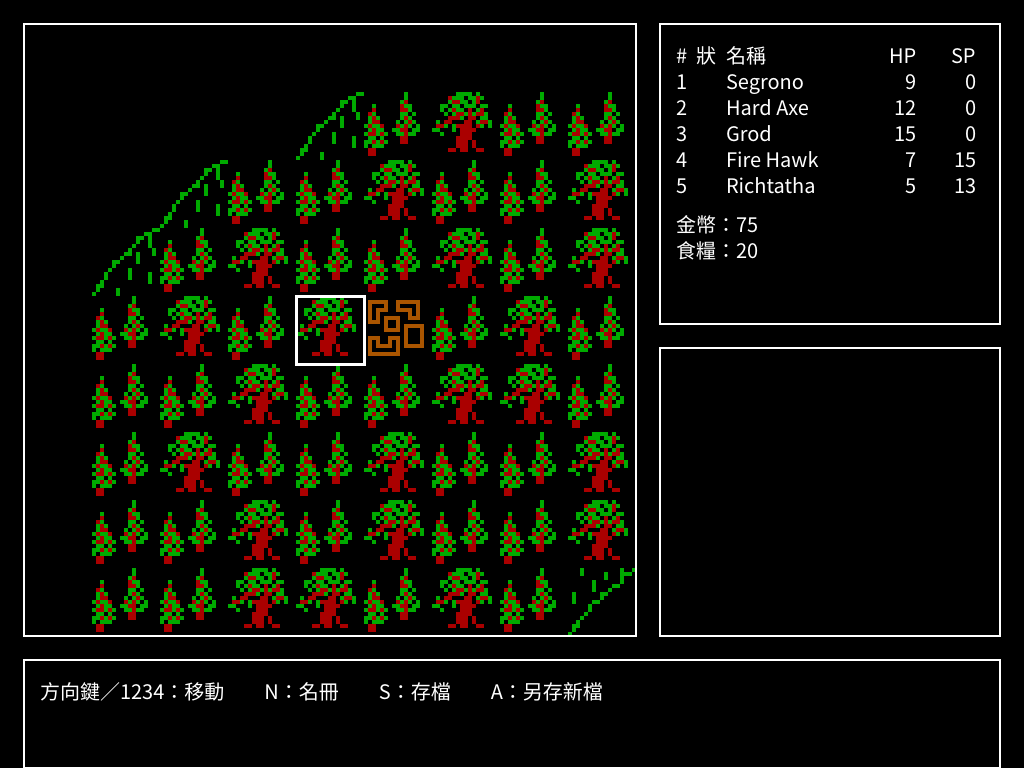
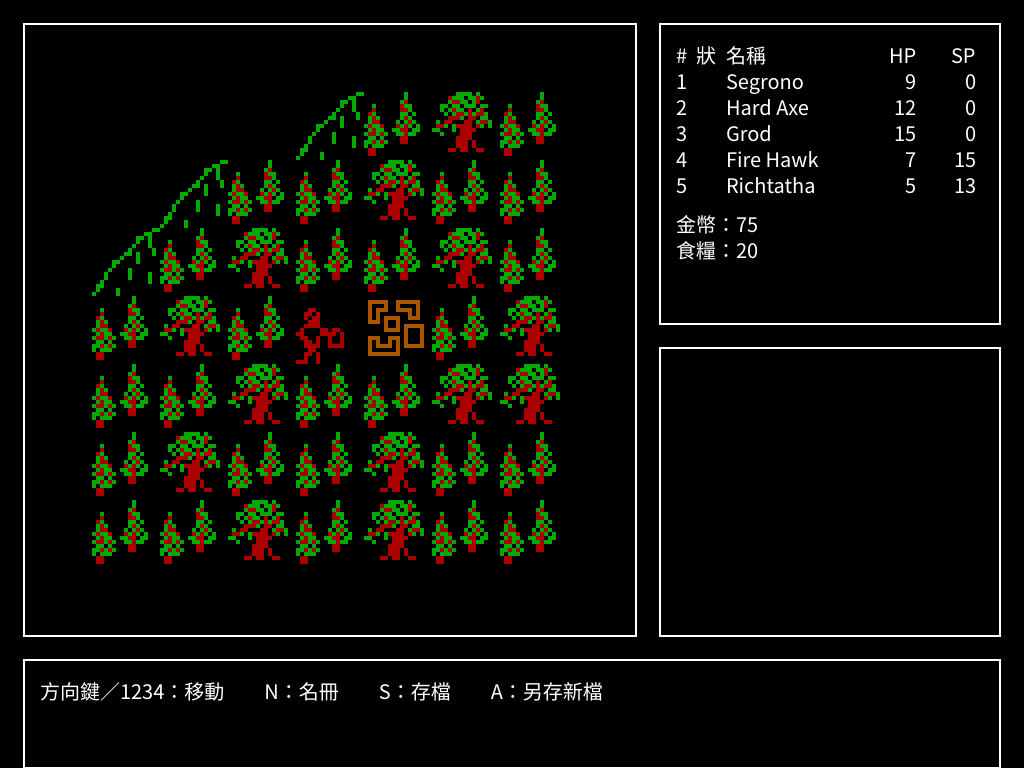
QA-C1:世界地圖與地城畫回原版的人形(WALKDRAW.PIC)
原版在隊伍那一格畫人形,重製版畫白框 —— 而白框是「⛔ 不拿別的圖冒充」
那條紀律的正確後果,不是隨便畫的:cmd/convert 從來沒轉 WALKDRAW.PIC,
引擎沒有東西可畫。

段對朝向是**量出來的**(docs/re/219):原版轉身不移動,所以連按四個
方向鍵各拍一張,四張之間唯一會變的就是人形本身 —— 實測有差異的像素
只落在 x 72-86、y 83-97 那一格,證實了這一點。再逐像素比對:
北=段2(95%)、東=段3(94%)、西=段7(89%)乾淨命中,南在 93%/92%
之間分不開,用排除法。結論 段 = (朝向−1)×2 + 1 + 步態。

⚠ 比對「畫在別的東西上面」的圖要比**含蓋率**不要比相符率。第一次用
「逐像素相同的比例」比,十段全部落在 55-70% 分不出高下 —— 因為那一格
同時有地形與人形。改比「sprite 的像素有幾成在原版那一格是亮的」之後,
最高的一項就跳到 95%。

⚠ 同一張圖要輸出**兩組色盤**:WRLDMOVE 寫 0x3D8=0x0A、MAZEMOVE 寫 0x0E。
只輸出一份的話其中一個場景顏色是錯的,而畫面上仍然是一個人形,
看不出哪裡不對。

⚠ 人形同時是**朝向的顯示**。世界地圖是「先轉再走」,沒有它玩家按一次
方向鍵不會動、卻不知道為什麼 —— 這比「少一張圖」嚴重。

步態只在真的位移時翻(轉身不換腳),兩處的 Step 回傳值本來就把轉身與
位移分開,加在 Moved 那一支。圖不在就退回白框。

README 的世界地圖與地城截圖跟著更新。

Changed region(s): [[0.0938, 0.125, 0.625, 0.8438], [0.2812, 0.375, 0.375, 0.5]]

diff --git a/engine/walk.go b/engine/walk.go
@@ -1,0 +1,97 @@
+package main
+
+import (
+	"fmt"
+	"image"
+	"os"
+	"path/filepath"
+
+	"github.com/hajimehoshi/ebiten/v2"
+
+	"shardofspring/internal/layout"
+)
+
+// 隊伍的人形圖示。來源是 `WALKDRAW.PIC`(10 段 BASIC `DRAW` 巨集),
+// 由 `cmd/convert` 渲染成 `gfx/walk/`(世界地圖色盤)與 `gfx/walk-maze/`(地城色盤)。
+//
+// ⚠ **這不是地形圖塊**,是畫在地形**上面**的角色 —— 世界地圖與地城共用同一份
+// (`MENU.EXE` 載入後放進 COMMON,只有它含這個檔名)。
+//
+// 段的語意(docs/re/219,用原版四個朝向的截圖逐像素比對出來的):
+//
+//	段 0        紮營的帳篷
+//	段 1,2      朝向 1(北)的兩個步態
+//	段 3,4      朝向 2(東)
+//	段 5,6      朝向 3(南)
+//	段 7,8      朝向 4(西)
+//	段 9        未定(不是人形)
+//
+// 也就是 `段 = (朝向−1)×2 + 1 + 步態`。
+
+// WalkSegs 是人形那八段的數量(不含帳篷與段 9)。
+const WalkSegs = 8
+
+// WalkTent 是紮營時取代人形的那一段。
+const WalkTent = 0
+
+// walkArt 是一組已載入的人形圖(索引 = 段號)。
+type walkArt map[int]*ebiten.Image
+
+// loadWalk 讀 <assets>/gfx/<dir>/w0.png … w9.png。
+//
+// ⚠ **讀不到就回 nil**,呼叫端退回白框(不拿別的圖冒充,同 docs/spec/15 §3)。
+func loadWalk(assets, dir string) walkArt {
+	out := walkArt{}
+	for k := 0; k <= 9; k++ {
+		f, err := os.Open(filepath.Join(assets, "gfx", dir, fmt.Sprintf("w%d.png", k)))
+		if err != nil {
+			continue
+		}
+		img, _, err := image.Decode(f)
+		f.Close()
+		if err == nil {
+			out[k] = ebiten.NewImageFromImage(img)
+		}
+	}
+	if len(out) == 0 {
+		return nil
+	}
+	return out
+}
+
+// seg 回傳某個朝向、某個步態要畫哪一段;0 = 沒有對應的圖。
+//
+// ⚠ 朝向的編碼是 **1 北 2 東 3 南 4 西**(docs/re/71)。超出範圍就回段 1 ——
+// 畫錯朝向比不畫好判斷,而不畫會讓玩家以為隊伍不見了。
+func (w walkArt) seg(facing, gait int) *ebiten.Image {
+	if w == nil {
+		return nil
+	}
+	if facing < 1 || facing > 4 {
+		facing = 1
+	}
+	return w[(facing-1)*2+1+gait%2]
+}
+
+// tent 回傳紮營用的那一段。
+func (w walkArt) tent() *ebiten.Image {
+	if w == nil {
+		return nil
+	}
+	return w[WalkTent]
+}
+
+// drawWalk 在指定位置畫一張人形(或帳篷)。回傳畫了沒有 ——
+// 沒畫的話呼叫端要退回白框。
+func drawWalk(dst *ebiten.Image, img *ebiten.Image, px, py float64) bool {
+	if img == nil {
+		return false
+	}
+	op := &ebiten.DrawImageOptions{}
+	op.GeoM.Scale(layout.ArtScale, layout.ArtScale)
+	op.GeoM.Translate(px, py)
+	// 整數倍放大不該有插值(docs/spec/04 §1)。
+	op.Filter = ebiten.FilterNearest
+	dst.DrawImage(img, op)
+	return true
+}

diff --git a/engine/cmd/convert/main.go b/engine/cmd/convert/main.go
@@ -12,6 +12,7 @@ import (
 	"flag"
 	"fmt"
 	"image"
+	"image/color"
 	"image/png"
 	"os"
 	"path/filepath"
@@ -260,6 +261,46 @@ func run(in, out, transDir string) error {
 		nWorld++
 	}
 	if err := step("world tiles", nWorld, nil); err != nil {
+		return err
+	}
+
+	// WALKDRAW.PIC:隊伍的人形圖示(docs/spec/14 §12)。
+	//
+	// ⚠ **它不是地形圖塊**,是畫在地形**上面**的角色 —— 世界地圖與地城共用同一份
+	// (`MENU.EXE` 載入後放進 COMMON,只有它含這個檔名)。
+	// 索引的語意見 docs/re/219;這裡**十段全部輸出、不濾空行**,行號就是索引。
+	if err := os.MkdirAll(filepath.Join(out, "gfx", "walk"), 0o755); err != nil {
+		return err
+	}
+	wd := original.SplitPIC(mustRead(in, "WALKDRAW.PIC"))
+	nWalk := 0
+	for k, row := range wd {
+		if strings.TrimSpace(row) == "" {
+			continue
+		}
+		// ⚠ **同一張圖要輸出兩份色盤。** `WRLDMOVE` 寫 `0x3D8 = 0x0A`、
+		// `MAZEMOVE` 寫 `0x0E`(docs/re/146 §4),所以世界地圖與地城的人形
+		// 顏色不同 —— 只輸出一份的話,其中一個場景的顏色會是錯的,
+		// 而畫面上仍然是一個人形,看不出哪裡不對。
+		drawn := original.RenderDraw(row, 17, 17)
+		for _, v := range []struct {
+			dir string
+			pal color.Palette
+		}{
+			{"walk", original.PaletteWorld},
+			{"walk-maze", original.PaletteMaze},
+		} {
+			if err := os.MkdirAll(filepath.Join(out, "gfx", v.dir), 0o755); err != nil {
+				return err
+			}
+			if err := writePNG(filepath.Join(out, "gfx", v.dir, fmt.Sprintf("w%d.png", k)),
+				original.WithPalette(drawn, v.pal)); err != nil {
+				return err
+			}
+		}
+		nWalk++
+	}
+	if err := step("walk", nWalk, nil); err != nil {
 		return err
 	}
 

diff --git a/engine/scene.go b/engine/scene.go
@@ -703,10 +703,16 @@ func (s worldScene) Draw(dst *ebiten.Image) {
 	}
 
 	if !inCombat && !inMaze && !inTown && !inRoster {
-		// 隊伍所在格的框
-		c := float32(layout.View.X + half*layout.TileDst)
-		r := float32(layout.View.Y + half*layout.TileDst)
-		vector.StrokeRect(dst, c, r, layout.TileDst, layout.TileDst, 3, cgaWhite, false)
+		// 隊伍所在格:畫**人形**(原版的 WALKDRAW.PIC,walk.go)。
+		// ⚠ 人形同時是**朝向的顯示** —— 世界地圖是「先轉再走」,
+		// 沒有它玩家按一次方向鍵不會動、卻不知道為什麼(docs/spec/14 §12-C)。
+		c := float64(layout.View.X + half*layout.TileDst)
+		r := float64(layout.View.Y + half*layout.TileDst)
+		if !drawWalk(dst, g.walk.seg(int(g.party.Facing), g.walkGait), c, r) {
+			// 圖沒轉出來就退回白框 —— ⛔ 不拿別的圖冒充。
+			vector.StrokeRect(dst, float32(c), float32(r),
+				layout.TileDst, layout.TileDst, 3, cgaWhite, false)
+		}
 	}
 
 	frame := func(rc layout.Rect) {
@@ -729,6 +735,9 @@ func (s worldScene) Update(in Input) Transition {
 		if g.party.Step(world.Facing(d), g.world) != world.Moved {
 			continue
 		}
+		// ⚠ 步態**只在真的位移時**翻 —— 轉身不換腳(walk.go)。
+		// Step 的回傳值把「轉身」與「位移」分開,這一行放在 Moved 之後才對。
+		g.walkGait++
 		// 站到拱門那一格且朝南 → 印敘述(docs/re/198)
 		g.archwayCheck()
 		// 踩到地城入口 → 進迷宮(docs/spec/08 §6)

diff --git a/engine/main.go b/engine/main.go
@@ -168,6 +168,13 @@ type Game struct {
 	// M12:遊戲外殼(docs/spec/15-game-shell.md)。標題/主選單/隊伍選擇/全滅/結局。
 	shell     *shellState
 	titleFont *render.Painter // 標題用 32px(docs/spec/04 §4)
+	// walk / walkMaze 是隊伍的人形圖示(WALKDRAW.PIC,見 walk.go)。
+	// nil = 沒轉出來,退回白框。
+	walk, walkMaze walkArt
+	// walkGait 是走路動畫的步態,每走成功一步翻面。
+	// ⚠ **只在真的位移時翻**,轉身不翻 —— 原版轉身不換腳。
+	walkGait int
+
 	// titleArt 是 STARTUP.BIN 左側那塊美術面板(docs/spec/15 §3)。
 	// **nil = 沒轉出來**,標題畫面退回純文字 —— ⛔ 不拿別的圖冒充。
 	titleArt *ebiten.Image
@@ -688,6 +695,7 @@ func loadStatic(dir, fontPath string, seed uint64) (*Game, error) {
 	fmt.Fprintln(os.Stderr, "字型:", fontName)
 	g.panel, g.overlayFont, g.titleFont = panel, overlay, title
 	g.titleArt = loadTitleArt(dir)
+	g.walk, g.walkMaze = loadWalk(dir, "walk"), loadWalk(dir, "walk-maze")
 	g.initSound()  // docs/spec/13:失敗只記警告,不影響遊戲
 	g.loadConfig() // 配樂模式等偏好。讀不到就用預設(= 原版)
 	g.shell = &shellState{mode: shellTitle}

diff --git a/engine/maze_scene.go b/engine/maze_scene.go
@@ -174,6 +174,7 @@ func (g *Game) stepMaze(dir maze.Facing) {
 		g.overlay = "離開地城……" // MAZEMOVE:88
 		return
 	case maze.Moved:
+		g.walkGait++ // 同世界地圖:轉身不翻步態
 	default:
 		return
 	}
@@ -313,10 +314,15 @@ func (g *Game) drawMaze(dst *ebiten.Image) {
 			}
 		}
 	}
-	// 隊伍所在格
-	c := float32(layout.View.X + half*layout.TileDst)
-	r := float32(layout.View.Y + half*layout.TileDst)
-	vector.StrokeRect(dst, c, r, layout.TileDst, layout.TileDst, 3, cgaWhite, false)
+	// 隊伍所在格:人形(walk.go)。⚠ 地城用**另一組色盤**(0x0E),
+	// 所以讀的是 walk-maze 那一份 —— 用世界地圖那份畫出來仍然是一個人形,
+	// 只是顏色不對。
+	c := float64(layout.View.X + half*layout.TileDst)
+	r := float64(layout.View.Y + half*layout.TileDst)
+	if !drawWalk(dst, g.walkMaze.seg(int(g.mazeState.Facing), g.walkGait), c, r) {
+		vector.StrokeRect(dst, float32(c), float32(r),
+			layout.TileDst, layout.TileDst, 3, cgaWhite, false)
+	}
 
 	// ⚠ 自己斷成兩行,不要靠折行 —— 這段固定超過訊息面板的 30 欄,
 	// 而 ui.Wrap 是按欄數硬斷的,會把「能見度」從中間切開。

diff --git a/docs/re/219-walkdraw-segments.md b/docs/re/219-walkdraw-segments.md
@@ -1,0 +1,103 @@
+# 219 — `WALKDRAW.PIC`:隊伍的人形圖示,段號對朝向
+
+> 輸入:`game/sharspri/WALKDRAW.PIC`(1,063 bytes)、`MENU.EXE`
+> (SHA-256 見 [`00-inputs.md`](00-inputs.md))、四張原版實跑截圖。
+> 信心:**證據充分**(三個朝向逐像素命中,第四個用排除法)。
+
+補上 [`spec/14`](../spec/14-remake-worklist.md) §12-C 的第一條:
+重製版在世界地圖與地城**用白框標示隊伍**,原版畫的是**人形**。
+
+## 1. 圖在哪個檔
+
+`WALKDRAW.PIC`,10 段 BASIC `DRAW` 向量巨集,與 `WRLDITEM.PIC` /
+`MAZEITEM.PIC` 同族([`49`](49-h-closure.md) §3 的容器)。
+
+`strings -a` 掃 13 支執行檔,**只有 `MENU.EXE` 含 `walkdraw`**
+(`WRLDMOVE` 只含 `wrlditem.pic`、`MAZEMOVE` 只含 `mazeitem.PIC`)。
+`MENU` 在載入時讀進 COMMON 的字串陣列,世界地圖與地城再取用 ——
+這解釋了**為什麼兩個場景看到的是同一個人**。
+
+⚠ **`cmd/convert` 從來沒轉它。** 引擎沒有東西可畫,才落回白框
+—— 而白框是「⛔ 不拿別的圖冒充」那條紀律的正確後果,不是隨便畫的。
+
+## 2. 段號對朝向
+
+`python3 tools/draw_pic.py game/sharspri/WALKDRAW.PIC` 渲染 10 段:
+
+| 段 | 內容 |
+|---:|---|
+| 0 | **帳篷**(紮營時取代人形)|
+| 1–8 | **人形**:四個朝向 × 兩個步態 |
+| 9 | 不是人形,用途未定 |
+
+對應關係是**用原版實跑量出來的**,不是猜的。做法:
+
+> **原版轉身不會移動**([`149`](149-every-action-costs-one-tick.md):
+> 轉身也算一個動作,但位置不變)—— 所以連按四個方向鍵各拍一張,
+> **四張之間唯一會變的就是人形本身**。
+
+```
+tools/dosbox_run.sh "…;key:Up;shot:f1-north;key:Right;shot:f2-east;
+                       key:Down;shot:f3-south;key:Left;shot:f4-west"
+```
+
+四張互比,**有差異的像素只落在 x 72–86、y 83–97**(92 個像素)——
+那就是隊伍那一格,證實了「只有人形在變」。
+
+再拿每一張的那一格與八段逐像素比對(取各自最佳偏移下的含蓋率):
+
+| 朝向 | 最佳命中 | 次高 |
+|---|---|---|
+| 北 | **段 2 = 95%** | 段 1 = 86% |
+| 東 | **段 3 = 94%** | 段 4 = 83% |
+| 南 | 段 7 = 93% | **段 6 = 92%** |
+| 西 | **段 7 = 89%** | 段 8 = 81% |
+
+北、東、西三個乾淨命中對應的段對;南在 93% / 92% 之間分不開,
+**用排除法**落到剩下那一對。結論:
+
+```
+段 = (朝向 − 1) × 2 + 1 + 步態        朝向 1北 2東 3南 4西(docs/re/71)
+```
+
+| 朝向 | 段 |
+|---|---|
+| 1 北 | 1, 2 |
+| 2 東 | 3, 4 |
+| 3 南 | 5, 6 |
+| 4 西 | 7, 8 |
+
+⚠ **南那一列是排除法得到的**,不是直接量到的。要升級成「已確認」,
+得找一格**周圍地形更單純**的位置重量一次 —— 現在那一格底下是樹,
+樹的枝葉與人形的手腳重疊,四個朝向的含蓋率因此都被墊高。
+
+> **判準:比對「畫在別的東西上面」的圖,要比含蓋率不要比相符率。**
+> 第一次用「逐像素相同的比例」比,十段全部落在 55–70%,分不出高下 ——
+> 因為那一格同時有地形與人形,而 sprite 只佔其中一部分。
+> 改比「sprite 的像素有幾成在原版那一格是亮的」之後,最高的一項就跳到 95%。
+
+## 3. 兩組色盤
+
+同一張圖在兩個場景**顏色不同**:`WRLDMOVE` 寫 `0x3D8 = 0x0A`、
+`MAZEMOVE` 寫 `0x0E`([`146`](146-maze-exit-negatives-and-palettes.md) §4)。
+所以 `cmd/convert` 輸出兩份(`gfx/walk/` 與 `gfx/walk-maze/`)。
+
+⚠ 只輸出一份的話,其中一個場景的顏色會是錯的,
+而**畫面上仍然是一個人形,看不出哪裡不對**。
+
+## 4. 對 remake 的影響
+
+`engine/walk.go` + 世界地圖與地城的繪製。⚠ 人形同時是**朝向的顯示** ——
+世界地圖是「先轉再走」,沒有它玩家按一次方向鍵不會動、卻不知道為什麼。
+
+步態**只在真的位移時翻**(轉身不換腳),兩處的 `Step` 回傳值本來就把
+轉身與位移分開,加在 `Moved` 那一支。
+
+## 5. 仍未解
+
+| 項目 | 狀態 |
+|---|---|
+| 段 9 是什麼 | 渲染出來不是人形也不是帳篷。沒查 |
+| 兩個步態怎麼交替 | 引擎每走一步翻一次。**原版的規則沒有讀** —— 也可能是照座標奇偶 |
+| 帳篷(段 0)的觸發 | 原版按 `C` 紮營時換成帳篷(QA 截圖),但引擎的營地入口還沒接(`spec/14` §12-B)|
+| `MENU` 把它放進 COMMON 的哪個位址 | 沒讀。本篇靠檔名字串與畫面證據,不靠位址 |

diff --git a/docs/spec/14-remake-worklist.md b/docs/spec/14-remake-worklist.md
@@ -474,7 +474,7 @@ Xvfb(image `:4`),`tools/go.sh` 的 test 分支自己起 X server。
 
 | 狀態 | 項目 | 內容 |
 |---|---|---|
-| [ ] | **隊伍圖示 + 朝向** | 原版畫**人形**(來源見下),分四個朝向;重製版畫白框、**朝向完全看不到**。而世界地圖是「先轉再走」——**玩家按一次方向鍵不會動,卻不知道為什麼**。這比「少一張圖」嚴重 |
+| [x] | **隊伍圖示 + 朝向** | ✅ `WALKDRAW.PIC` 轉出來了(兩組色盤),世界地圖與地城都畫人形([`re/219`](../re/219-walkdraw-segments.md))。段對朝向是**拿原版四個朝向的截圖逐像素量出來的** —— 轉身不移動,所以四張之間唯一會變的就是人形。人形同時是朝向的顯示 |
 | [ ] | 側欄的時刻與朝向 | 原版右下角常駐 `Hour N   Facing ↓` + 小鍵盤對照表;重製版只在**視窗標題列**。時刻決定天色與視野 |
 | [ ] | `P)` 隊伍資訊畫面 | 原版:`Hour/Day` + `In the Month of <名>` + `Visibility = N`。**唯一**看得到日、月與能見度數值的地方。月份名在 `MENU.EXE` 位移 9888 的 `DATA` 敘述(12 個)。⚠ 引擎的曆法月份是 1–21,**第 13 個月印什麼未查** |
 | [ ] | 地城名 | 原版印 `Black Fort`,重製版印「地城 DG1 (42, 49) 朝向 3」—— 內部座標不該給玩家看。六座地城的名稱在 `MENU.EXE` 位移 10030([`re/123`](../re/123-menu-data-place-lists.md) §1),中譯在 `translations/glossary.md` |
